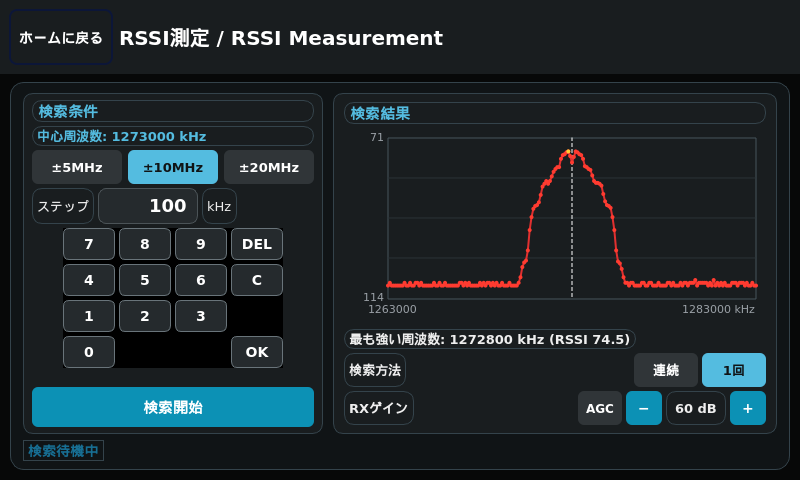
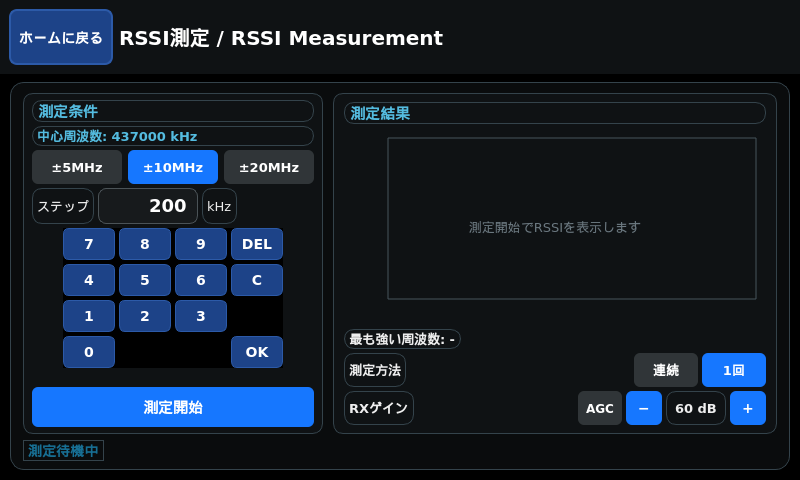
README: 全画面のスクリーンショットを撮り直す(2026-11-12、18画面)
実機でアプリの制御ソケット(navigate:<画面>・screenshot)を使い、Home・送信・受信・
周波数・RSSI測定・シンボルレート・誤り訂正・変調方式・映像ソース・出力設定・RXゲイン・
TX出力・設定・機器試験・プリセット・ヘルプ・電源オフ確認を撮影し、Langstoneの画面は
/dev/fb0から取り込んだ。シンボルレート・誤り訂正・RXゲイン・TX出力・ヘルプ・Langstoneは新規。
Pluto+はFPGA版ファーム(plutoplus-udp-fpga-firm)を接続して撮影。

diff --git a/README.md b/README.md
@@ -78,24 +78,39 @@ official DSI touch display). Ports to other platforms (Android/iOS) are maintain
 
 ## スクリーンショット / Screenshots
 
-実機(DFR0550、800x480)の画面(2026-09-25撮影)。映像はすべてテストパターンで撮影している。
-送信画面は送信中、RSSI測定はオンデバイス復調ONで「1回」実行した結果(自局のテストパターン信号)。
+実機(800x480)の画面(2026-11-12撮影、Pluto+はFPGA版ファーム`plutoplus-udp-fpga-firm`を接続)。
+映像はテストパターン。送受信は止めた状態で撮っている。アプリの制御ソケット
+(`/tmp/shonan-pi4-gui.sock`の`navigate:<画面>`・`screenshot`)で画面を切り替えて撮影し、
+Langstoneの画面はフレームバッファ(`/dev/fb0`)から取り込んだ。
 
-Screens on the device (DFR0550, 800x480, taken on 2026-09-25). All video was taken with the test pattern.
-The TX screen is shown while transmitting, and RSSI measurement shows the result of a "Once" run with on-device
-demodulation ON (the station's own test-pattern signal).
+Screens on the device (800x480, taken on 2026-11-12 with a Pluto+ running the FPGA firmware
+`plutoplus-udp-fpga-firm`). The video is the test pattern; TX and RX were stopped. The screens were switched
+and captured through the app's control socket (`navigate:<screen>` and `screenshot` on
+`/tmp/shonan-pi4-gui.sock`); the Langstone screen was read from the frame buffer (`/dev/fb0`).
 
-| Home画面 / Home | 送信画面 / TX | 受信画面 / RX | RSSI測定 / RSSI |
-| --- | --- | --- | --- |
-| ![Home画面](pi4/docs/images/screenshot_home.png) | ![送信画面](pi4/docs/images/screenshot_tx.png) | ![受信画面](pi4/docs/images/screenshot_rx.png) | ![RSSI測定](pi4/docs/images/screenshot_rssi.png) |
+| Home画面 / Home | 送信画面 / TX | 受信画面 / RX |
+| --- | --- | --- |
+| ![Home画面](pi4/docs/images/screenshot_home.png) | ![送信画面](pi4/docs/images/screenshot_tx.png) | ![受信画面](pi4/docs/images/screenshot_rx.png) |
 
-| 映像ソース / Video Source | 変調方式 / Modulation | 出力設定 / Stream Output | プリセット / Presets |
-| --- | --- | --- | --- |
-| ![映像ソース](pi4/docs/images/screenshot_videosource.png) | ![変調方式](pi4/docs/images/screenshot_modulation.png) | ![出力設定](pi4/docs/images/screenshot_streamoutput.png) | ![プリセット](pi4/docs/images/screenshot_presets.png) |
+| 周波数 / Frequency | RSSI測定 / RSSI | シンボルレート / Symbol Rate |
+| --- | --- | --- |
+| ![周波数](pi4/docs/images/screenshot_frequency.png) | ![RSSI測定](pi4/docs/images/screenshot_rssi.png) | ![シンボルレート](pi4/docs/images/screenshot_symbolrate.png) |
 
-| 機器試験 / Diagnostic | 設定 / Config | 周波数 / Frequency | 電源オフ / Power Off |
-| --- | --- | --- | --- |
-| ![機器試験](pi4/docs/images/screenshot_diagnostic.png) | ![設定](pi4/docs/images/screenshot_settings.png) | ![周波数](pi4/docs/images/screenshot_frequency.png) | ![電源オフ](pi4/docs/images/screenshot_poweroff.png) |
+| 誤り訂正 / FEC | 変調方式 / Modulation | 映像ソース / Video Source |
+| --- | --- | --- |
+| ![誤り訂正](pi4/docs/images/screenshot_fec.png) | ![変調方式](pi4/docs/images/screenshot_modulation.png) | ![映像ソース](pi4/docs/images/screenshot_videosource.png) |
+
+| 出力設定 / Stream Output | RXゲイン / RX Gain | TX出力 / TX Power |
+| --- | --- | --- |
+| ![出力設定](pi4/docs/images/screenshot_streamoutput.png) | ![RXゲイン](pi4/docs/images/screenshot_rxgain.png) | ![TX出力](pi4/docs/images/screenshot_txpower.png) |
+
+| 設定 / Config | 機器試験 / Diagnostic | プリセット / Presets |
+| --- | --- | --- |
+| ![設定](pi4/docs/images/screenshot_settings.png) | ![機器試験](pi4/docs/images/screenshot_diagnostic.png) | ![プリセット](pi4/docs/images/screenshot_presets.png) |
+
+| ヘルプ / Help | 電源オフ / Power Off | Langstone(10GHz受信用バンド) / Langstone (10 GHz RX band) |
+| --- | --- | --- |
+| ![ヘルプ](pi4/docs/images/screenshot_help.png) | ![電源オフ](pi4/docs/images/screenshot_poweroff.png) | ![Langstone](pi4/docs/images/screenshot_langstone.png) |
 
 各画面の操作方法は、アプリ内の「ヘルプ」または操作説明書
 [`pi4/docs/shonan_pi4_operation_manual.docx`](pi4/docs/shonan_pi4_operation_manual.docx)を参照。
